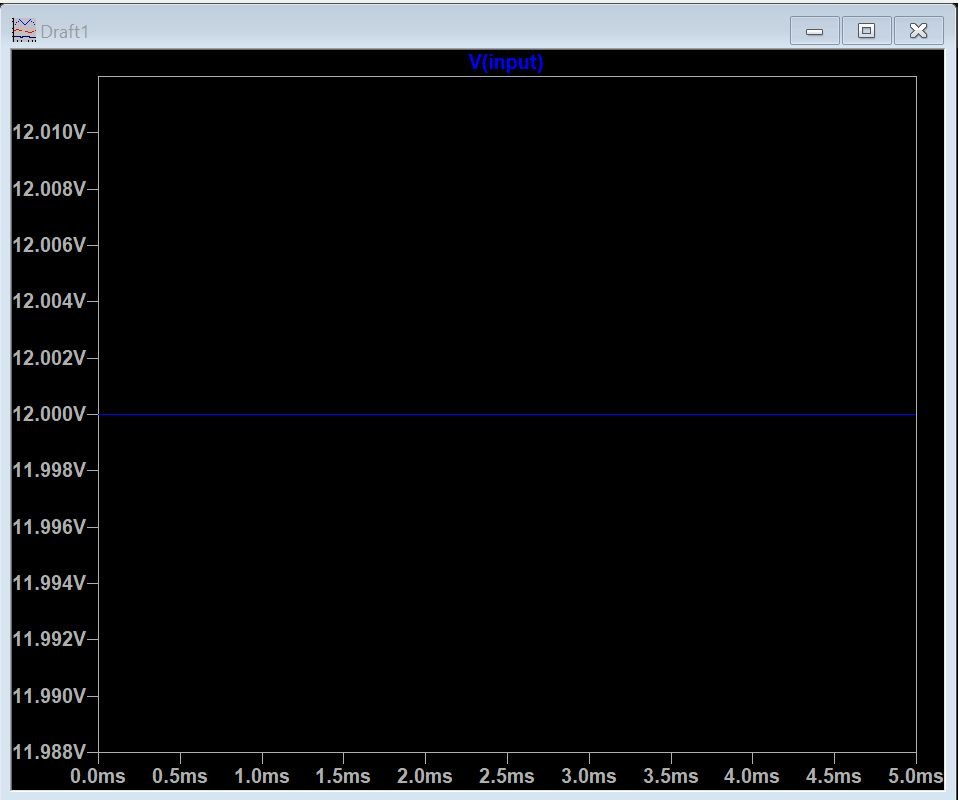
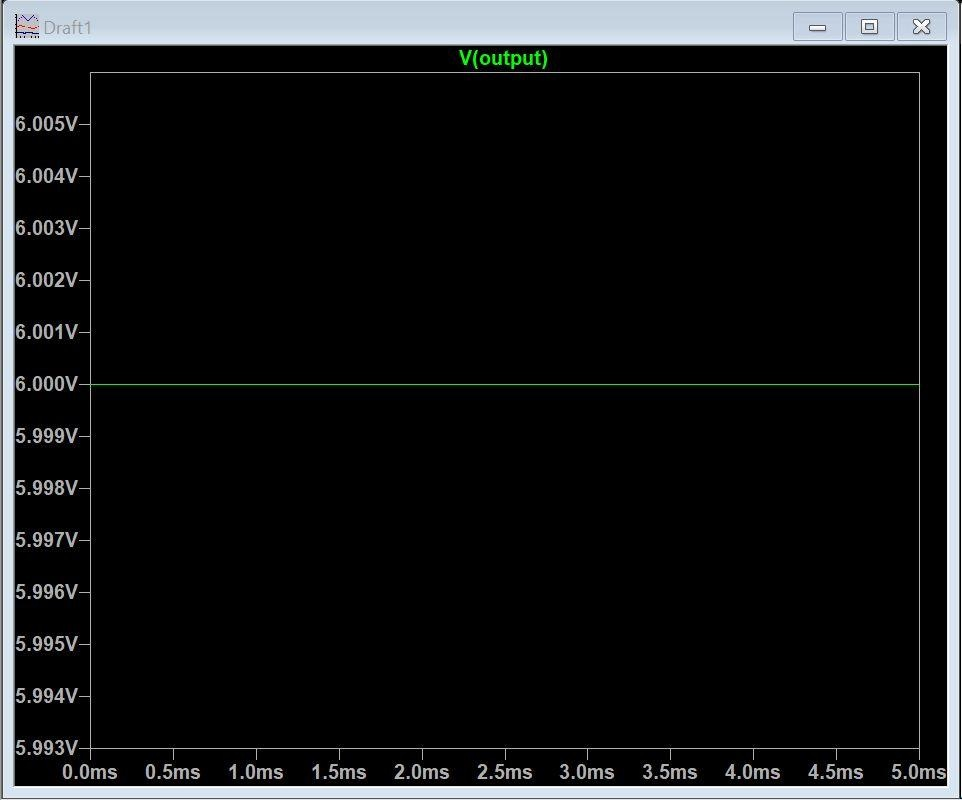
feat: replace Buck Converter input waveform with simulated 6V output waveform

Changed region(s): [[0.0, 0.0, 1.0, 1.0]]

diff --git a/index.html b/index.html
@@ -807,7 +807,7 @@
                 <button class="media-tab active" data-target-src="images/cir1.webp" data-target-caption="Buck Converter LTspice Circuit Schematic Diagram" data-target-alt="Buck Converter Schematic" role="tab" aria-selected="true">
                   <span data-i18n="tab_schematic">Schematic</span>
                 </button>
-                <button class="media-tab" data-target-src="images/out1.webp" data-target-caption="Buck Converter Output Voltage and Current Waveforms" data-target-alt="Buck Converter Output Waveforms" role="tab" aria-selected="false">
+                <button class="media-tab" data-target-src="images/out1.webp" data-target-caption="Buck Converter Output Voltage Waveform in LTspice (Stepped Down 6V DC Steady-State V(output))" data-target-alt="Buck Converter Output Voltage Waveform in LTspice (6V V(output))" role="tab" aria-selected="false">
                   <span data-i18n="tab_waveform">Waveform</span>
                 </button>
               </div>
@@ -830,21 +830,21 @@
                   <span class="spec-pill-val">12 V</span>
                 </div>
                 <div class="spec-pill">
+                  <span class="spec-pill-label" data-i18n="boost_spec_vout">Output</span>
+                  <span class="spec-pill-val">6 V</span>
+                </div>
+                <div class="spec-pill">
                   <span class="spec-pill-label" data-i18n="buck_spec_fsw">Freq</span>
                   <span class="spec-pill-val">25 kHz</span>
                 </div>
                 <div class="spec-pill">
-                  <span class="spec-pill-label" data-i18n="buck_spec_mosfet">MOSFET</span>
-                  <span class="spec-pill-val">IRFZ44N</span>
-                </div>
-                <div class="spec-pill">
-                  <span class="spec-pill-label" data-i18n="buck_spec_ind">Inductor</span>
-                  <span class="spec-pill-val">143 µH</span>
+                  <span class="spec-pill-label" data-i18n="boost_spec_duty">Duty</span>
+                  <span class="spec-pill-val">50%</span>
                 </div>
               </div>
 
               <p class="project-brief-text" data-i18n="buck_overview_p1">
-                Completed simulation of a Buck (Step-Down) DC-DC Converter in LTspice, stepping down 12V using PWM control to analyze transient and steady-state switching dynamics.
+                Completed simulation of a Buck (Step-Down) DC-DC Converter in LTspice, stepping down 12V to 6V using PWM control to analyze transient and steady-state switching dynamics.
               </p>
 
               <button class="project-deepdive-toggle" aria-expanded="false" aria-controls="buckDrawer">
@@ -873,6 +873,14 @@
                     <div class="spec-row">
                       <span class="spec-name" data-i18n="buck_spec_vin">Input Voltage</span>
                       <span class="spec-value mono">12 V</span>
+                    </div>
+                    <div class="spec-row">
+                      <span class="spec-name" data-i18n="boost_spec_vout">Output Voltage</span>
+                      <span class="spec-value mono">6 V</span>
+                    </div>
+                    <div class="spec-row">
+                      <span class="spec-name" data-i18n="boost_spec_duty">Duty Cycle</span>
+                      <span class="spec-value mono">50%</span>
                     </div>
                     <div class="spec-row">
                       <span class="spec-name" data-i18n="buck_spec_fsw">Switching Frequency</span>

diff --git a/README.md b/README.md
@@ -23,7 +23,7 @@
   5. **MSME • ISO 9001:2015 • Startup India**: Artificial Intelligence Traineeship (Credential ID: MYMAIT1922, September 2026).
 
 - **🔬 6 Comprehensive Engineering Case Studies**:
-  1. **Buck Converter Simulation**: LTspice step-down power conversion (12V to 5V, IRFZ44N, 1N5819, 143µH, 200µF, 25kHz PWM).
+  1. **Buck Converter Simulation**: LTspice step-down power conversion (12V to 6V, IRFZ44N, 1N5819, 143µH, 200µF, 25kHz PWM, 50% duty).
   2. **Boost Converter Simulation**: LTspice step-up power conversion (5V to ~10V, 100kHz, 50% duty, 100µH).
   3. **Closed-Loop Speed Control of a DC Motor (MATLAB/Simulink)**: PI-regulated armature drive with dynamic load disturbance rejection and interactive block diagram.
   4. **Boost Converter PCB Design in KiCad**: Hardware switching regulator PCB using MC34063AP, 100µH power inductor, 1N5822 Schottky diode, adjustable trimmer feedback, and 3D raytraced visualization.
@@ -60,7 +60,7 @@ portfolio/
     ├── cer4.jpg / .webp       # Artificial Intelligence Traineeship Certificate
     ├── cer5.jpg / .webp       # MathWorks Simscape Onramp Certificate
     ├── cir1.jpg / .webp       # Buck Converter Schematic
-    ├── out1.jpg / .webp       # Buck Converter Waveform
+    ├── out1.jpg / .webp       # Buck Converter Output Waveform (6V V(output))
     ├── cir2.jpg / .webp       # Boost Converter Schematic
     ├── out2.jpg / .webp       # Boost Converter Waveform
     ├── cir3.jpg / .webp       # Simulink DC Motor Closed-Loop Model
